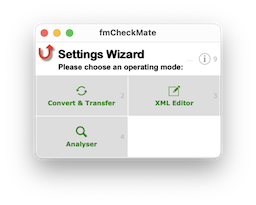
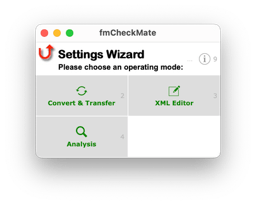
Lots more stuff + better

diff --git a/_sass/custom/custom.scss b/_sass/custom/custom.scss
@@ -434,7 +434,7 @@ pre.steps {
 
 
 
-
+/* GitHub Feed Item View */
 
 .js-feed-item-view {
   padding: 1em;
@@ -481,4 +481,12 @@ pre.steps {
 .public::before {
   content: "📂 Public repo: ";
   font-weight: bold;
+}
+.js-feed-item-view a.d-inline-block {
+  /*
+  float: left;
+  margin-top: 0.25em;
+  margin-right: 0.75em;
+  */
+  vertical-align: middle;
 }

diff --git a/fmcheckmate-modes.md b/fmcheckmate-modes.md
@@ -18,7 +18,7 @@ fmCheckMate has a few different modes of operation to match your current activit
 
 ![Settings Button](/assets/images/fmcheckmate-settings-button.png){:.float-front-right .w-128}
 
- The current mode is shown in the top right corner of the app window (default is the Small XML Editor). Clicking it opens the fmCheckMate `Settings Wizard` / mode chooser. Alternatively press <kbd>⌘9</kbd> or select menu `fmCheckMate > Settings…`
+ The current mode is shown in the top right corner of the app window (default is the Small XML Editor). Clicking it opens the fmCheckMate `Settings Wizard` & mode chooser. Alternatively press <kbd>⌘9</kbd> or select menu `fmCheckMate > Settings…`
 
 ![Settings Wizard](/assets/images/fmcheckmate-settings-wizard.png)
 
@@ -28,17 +28,27 @@ You can choose between three main modes of operation:
 | ---------------------- | ---------------------------------------------------------------------- | :------------------------: |
 | **Convert & Transfer** | transfer code across a remote connection between FileMaker deployments | <kbd>⌘9</kbd><kbd>⌘2</kbd> |
 | **XML Editor**         | edit the XML, see, search, change or transform it                      | <kbd>⌘9</kbd><kbd>⌘3</kbd> |
-| **Analyser**           | check your code for errors, particularly layouts!                      | <kbd>⌘9</kbd><kbd>⌘4</kbd> |
+| **Analysis**           | check your code for errors, particularly layouts!                      | <kbd>⌘9</kbd><kbd>⌘4</kbd> |
 
-### XML Editor Modes
+### Convert & Transfer Mode
 
-If you choose XML Editor, you can pick which kind of XML Editor you prefer
+In Convert and Transfer mode when you convert the clipboard between FileMaker objects and fmxmlsnippet text fmCheckMate does not change to the editor view but stays on the home layout
+
+If you want to transfer code across a remote connection between FileMaker deployments, you can use the `Convert & Transfer` mode in fmCheckMate on both machines to quickly move code between them.
+
+### Analysis Mode
+
+In Analysis mode, when you convert the clipboard fmCheckMate immediately shows the list of analysis functions, so you can choose one to run on the XML.
+
+### XML Editor Mode
+
+The XML Editor mode is about working with the XML. There are several different XML Editor modes to choose from, depending on your needs:
 
 ![Mode Buttons 2](/assets/images/fmcheckmate-xml-modes.png)
 
 | Use XML Editor mode                 | When you want to                                           | Shortcut                                |
 | ----------------------------------- | ---------------------------------------------------------- | --------------------------------------- |
-| **XML Editor › Small**              | edit the XML with minimal impact on your workspace         | <kbd>⌘9</kbd><kbd>⌘3</kbd><kbd>⌘2</kbd> |
-| **XML Editor › Large**              | see the XML clearly                                        | <kbd>⌘9</kbd><kbd>⌘3</kbd><kbd>⌘3</kbd> |
+| **XML Editor › Large**              | see the XML clearly                                        | <kbd>⌘9</kbd><kbd>⌘3</kbd><kbd>⌘2</kbd> |
+| **XML Editor › Small**              | edit the XML with minimal impact on your workspace         | <kbd>⌘9</kbd><kbd>⌘3</kbd><kbd>⌘3</kbd> |
 | **XML Editor › Int. + Ext. Editor** | use both internal and external editors                     | <kbd>⌘9</kbd><kbd>⌘3</kbd><kbd>⌘4</kbd> |
 | **XML Editor › External**           | edit the xml in your default xml editor                    | <kbd>⌘9</kbd><kbd>⌘3</kbd><kbd>⌘5</kbd> |

diff --git a/a-system-of-integrated-tools.md b/a-system-of-integrated-tools.md
@@ -2,7 +2,7 @@
 title: A System of Integrated Tools
 strapline: 
 parent: MrWatson's Tools
-nav_order: 0150
+nav_order: 0300
 layout: default
 ---
 - TOC
@@ -16,7 +16,11 @@ layout: default
 
 Developed over [many years](the-history-of-mrwatsons-tools.html) to [solve real-world problems](solutions-to-daily-problems.html), MrWatson's tools have come to cover a wide range of tasks and problems that I and many other FileMaker developers encounter regularly during their daily routine.
 
-The tools can solve problems
+### Solve Problems
+
+{: .mrw-green-bg}
+
+The tools solve problems at all stages of the development process
 
 - during setup of a FileMaker workplace computer
 - throughout all aspects of the development process
@@ -24,4 +28,35 @@ The tools can solve problems
 - during deployment and patching
 - with integrating documentation
 
-They have [common navigation](navigation-menus-keys.html), a kind of geeky common look and feel, they are designed to work together efficiently.
+![Plug Gaps](/assets/images/plug-gaps.png){: .float-front-right .w-64 .mt-16}
+
+### Plug gaps
+
+{: .mrw-gold-bg}
+
+The tools plug gaps in FileMaker functionality
+
+🤒 Medicine for where it hurts!
+
+- While FileMaker Pro [logs some pasting errors](did-that-just-break.html), **in the most complicated and error-prone area of FileMaker - layouts - paste errors are not logged at all!**
+  - [Layout Analysis with fmCheckMate](layout-analysis-with-fmcheckmate) is designed specifically to plug that hole!
+- While FileMaker does not (yet) support **deep linking** into the FileMaker GUI
+  - [fmIDE](fmide.html) allows you to get where you want *fast*.
+- FileMaker's Assisted Install file can only go so far in setting up your FileMaker environment
+  - [fmSetupAssistant](fmsetupassistant.html) goes the whole way and can not only setup your FileMaker settings, but also some operating system settings too.
+
+### Work Together
+
+{: .mrw-blue-bg}
+
+The Tools work together
+
+- As evident from the [Case Study Backporting an e-Invoice Solution for GBS GmbH](case-study-backporting-e-invoice-solution-gbs.html). 
+
+### Work Consistently
+
+MrWatson's Tools 
+
+- have [common navigation](navigation-menus-keys.html)
+- have a kind of geeky common look and feel
+- are designed to work efficiently together

diff --git a/filemakerdoc.md b/filemakerdoc.md
@@ -1,0 +1,47 @@
+---
+title: FileMakerDoc
+strapline: A Documentation Tool & Concept for FileMaker
+parent: Other Tools and Modules
+nav_order: 3
+layout: default
+---
+1. TOC
+{:toc}
+
+{% include page-image.html width=site.page_image_width %}
+
+## {{page.title}}
+
+{{page.strapline}}
+
+{: .mrw-blue-bg }
+
+FileMakerDoc is an attempt to do for FileMaker what Javadocs does for Java.
+
+The idea is to use `@tags` in your script comments to document them, and provide an XSLT transformation in fmCheckMate to generate HTML documentation from the @tags.
+
+Whilst the XSLT transformation never made it to production, the project did have some success:
+
+- in [fmSyntaxColorizer](fmsyntaxcolorizer.html) FileMakerDoc Syntax Colorizing still exists. ˚@tags˚ at the start of a comment get a special colour:
+
+  - Image ToDo
+
+- in the Script Workspace certain `@tags` have been implemented within the MBS Plugin, for example:
+
+  - `@param`
+  - `@var`
+  - `@return`
+  - `@returns`
+
+### @tags for Variable Checking
+
+Above all the `@param` and `@var` tags are useful to mark variables as defined, where the MBS Plugin is unable to recognise them. This is not only documentation, but semantic meaning!
+
+- ToDo Image / explanation
+
+### FileMakerDoc: Discontinued or just sleeping?
+
+FileMakerDoc, which for a while even had a website to its name, never quite got off the ground, not least because around the same time that I started to work on FileMakerDoc, Todd Geist brought out [karbon fmdocs](https://github.com/karbonfm/fmdocs) with almost identical aims, and marketed far more enthusiastically.
+
+{: .mrw-gold-bg }
+Although FileMakerDoc is sleeping, I still believe in the value of the concept, and I hope one day to return to it, but for now I have put it on the back burner.

diff --git a/solutions-to-daily-problems.md b/solutions-to-daily-problems.md
@@ -15,10 +15,18 @@ layout: default
 
 ### We are Problem Solvers
 
-We are FileMaker developers. We are problem solvers, right? Yep, and in my daily work I often find myself solving the same problems over and over again. Sometimes silly little problems, sometimes huge problems needing all the skills and tools of the trade.
+> We are FileMaker developers. We are problem solvers, right?
 
-My tools are my solution to all the problems I get in my daily work - and very probably solutions to the problems you get in your daily FileMaker work too! So, take a look through the problems listed here, and see if you can't find a solution to make your daily routine better, more productive and more fun!
+Yep, and in my daily work I often find myself solving the same problems over and over again. Sometimes silly little problems, sometimes huge problems needing all the skills and tools of the trade.
 
-### Show me your Problem, I'll show you my Solution
+### And Solution Sharers
 
-Here are some of the problems I've faced and the solutions I've found. I hope you find them useful too!
+My tools are my solutions to all the problems I get in my daily work, and since we [share the same platform](claris-filemaker.html) we very probably *share the same problems* in our daily FileMaker development, I can share my solutions to your great advantage :D
+
+If there was one thing we learned from [dotfmp](https://www.youtube.com/channel/UCpvtoyie8-1vZd7pW-wEICA/videos), it was
+
+> 'we share because we can!'
+
+{: .mrw-gold-bg}
+
+So, take a look through the problems listed here, and see if you can't find a solution to make your daily routine better, more productive and [more fun](why-mrwatsons-tools.html#fun) than ever before!

diff --git a/did-that-just-break.md b/did-that-just-break.md
@@ -14,8 +14,6 @@ layout: default
 
 {{page.strapline}}
 
-### Introduction
-
 And when something breaks in a FileMaker database, does it log an error?
 
 When moving code around, patching files, or generally copy + pasting stuff from A to B, it's quite easy to break things. 
@@ -64,8 +62,5 @@ If the list is empty, you can go back and save the custom functions, and if not 
 
 #### For Layouts
 
-- Copy the layout objects back to the clipboard
-- With fmCheckMate convert them to XML
-- Click `[T]` (or press`⌘T`) to choose an XSLT transformation
-- Select the analysis function "Layout Analysis"
-- You get a neat list of all the errors and warnings in the layout
+With fmCheckMate and the fmCheckMate XSLT Library you can [perform an instant analysis on any layout](layout-analysis-with-fmcheckmate.html) in your solution.
+

diff --git a/layout-analysis-with-fmcheckmate.md b/layout-analysis-with-fmcheckmate.md
@@ -1,0 +1,29 @@
+---
+title: Layout Analysis with fmCheckMate
+strapline: NOW!
+parent: fmCheckMate XSLT Library
+nav_order: 100
+layout: default
+---
+- TOC
+{:toc}
+
+{% include page-image.html width=site.page_image_width %}
+
+## {{page.title}}
+
+{{page.strapline}}
+
+Find errors in FileMaker Layouts - instantly!
+
+You just need fmCheckMate and fmCheckMate XSLT Library:
+
+1. Copy the layout objects back to the clipboard
+2. With fmCheckMate convert them to XML
+3. Click `[T]` (or press`⌘T`) to choose an XSLT transformation
+4. Select the analysis function "Layout Analysis"
+5. You get a neat list of all the errors and warnings in the layout
+
+### Processing lots of layouts?
+
+Use [fmCheckMate's Analysis mode](fmcheckmate-modes.html#analysis-mode) to process layouts sequentially and quickly.

diff --git a/fmcheckmate-transform.md b/fmcheckmate-transform.md
@@ -1,6 +1,6 @@
 ---
 title: fmCheckMate Transform Button
-strapline: Transforms your FileMaker work
+strapline: [T] is for Transform
 parent: fmCheckMate
 nav_order: 100
 layout: default
@@ -14,29 +14,8 @@ layout: default
 
 {{page.strapline}}
 
-
-
 ### Introduction
 
-fmCheckMate converts your FileMaker objects to/from XML.
-
-
-### fmCheckMate Settings
-
-
-### Finding & Replacing
-
-
-
-### Finding strings
-
-Right click on the `[F]` button to see the
-
-### fmCheckMate Modes
-
-1. Convert Mode
-2. Analysis Mode
-3. XML Editor
-   a. Internal XML Editor
-   b. External XML Editor
+With the help of the [fmCheckMate XSLT Library](fmcheckmate-xslt-library.html)
+fmCheckMate can transform your life by analysing, changing and transforming your FileMaker code.
 

diff --git a/news.md b/news.md
@@ -16,7 +16,11 @@ layout: default
 
 Read the blog on [mrwatson.de](https://www.mrwatson.de) to keep up to date.
 
-### MrWatson's Activities on GitHub
+![GitHub](/assets/images/github-mark.png){: .float-front-right .w-64}
+
+### MrWatson's GitHub Ticker
+
+{% capture github %}
 
 <div 
   data-rss-feed="https://github.com/mrwatson-de.atom"
@@ -24,5 +28,7 @@ Read the blog on [mrwatson.de](https://www.mrwatson.de) to keep up to date.
   data-rss-link-titles="false"
   data-rss-title-wrapper="h4"
 ></div>
+
+{% endcapture %}<section class="fullwidth">{{ github | markdownify }}</section>
 
 <script src="https://cdn.jsdelivr.net/gh/55sketch/simple-rss/simple-rss.js"></script>

diff --git a/help.md b/help.md
@@ -91,6 +91,16 @@ Some tips from the Beatles:
 
 ---
 
+![FileMakerDoc](filemakerdoc.png){:.float-front-right .mt-16 .w-64}
+
+## FileMakerDoc
+
+About [FileMakerDoc](filemakerdoc.html)
+
+[🔝](#)
+
+---
+
 ![fmAutoMate](fmautomate.png){:.float-front-right .mt-16 .w-64}
 
 ## fmAutoMate
@@ -296,6 +306,16 @@ About [fmTextConverter](fmtextconverter.html)
 ## fmTextDiff
 
 About [fmTextDiff](fmtextdiff.html)
+
+[🔝](#)
+
+---
+
+![fmTouchBar](fmtouchbar.png){:.float-front-right .mt-16 .w-64}
+
+## fmTouchBar
+
+About [fmTouchBar](fmtouchbar.html)
 
 [🔝](#)
 

diff --git a/the-history-of-mrwatsons-tools.md b/the-history-of-mrwatsons-tools.md
@@ -245,6 +245,15 @@ Although `Perform Script by Name` was introduced later, thanks to the dynamic Fi
 {: .clear}
 
 ---
+[![FileMakerDoc](filemakerdoc.png){:.w-64}](filemakerdoc.html){: .clear .float-front-right}
+
+### 2017 FileMakerDoc
+
+FileMakerDoc never quite got off the ground.
+
+{: .clear}
+
+---
 
 [![My first commit](/assets/images/my-first-commit.png){:.w-64}](mrwatsons-repositories.html){: .clear .float-front-right}
 

diff --git a/other-tools-and-modules.md b/other-tools-and-modules.md
@@ -1,6 +1,6 @@
 ---
 title: Other Tools and Modules
-strapline: One more thing…
+strapline: …including the ones that didn't make it
 nav_order: 1900
 layout: default
 ---
@@ -13,3 +13,9 @@ layout: default
 
 {{page.strapline}}
 
+- MrWatson's Quarantine remover for the MBS Plugin
+- …and?
+
+### The ones that didn't make it
+
+See below.
